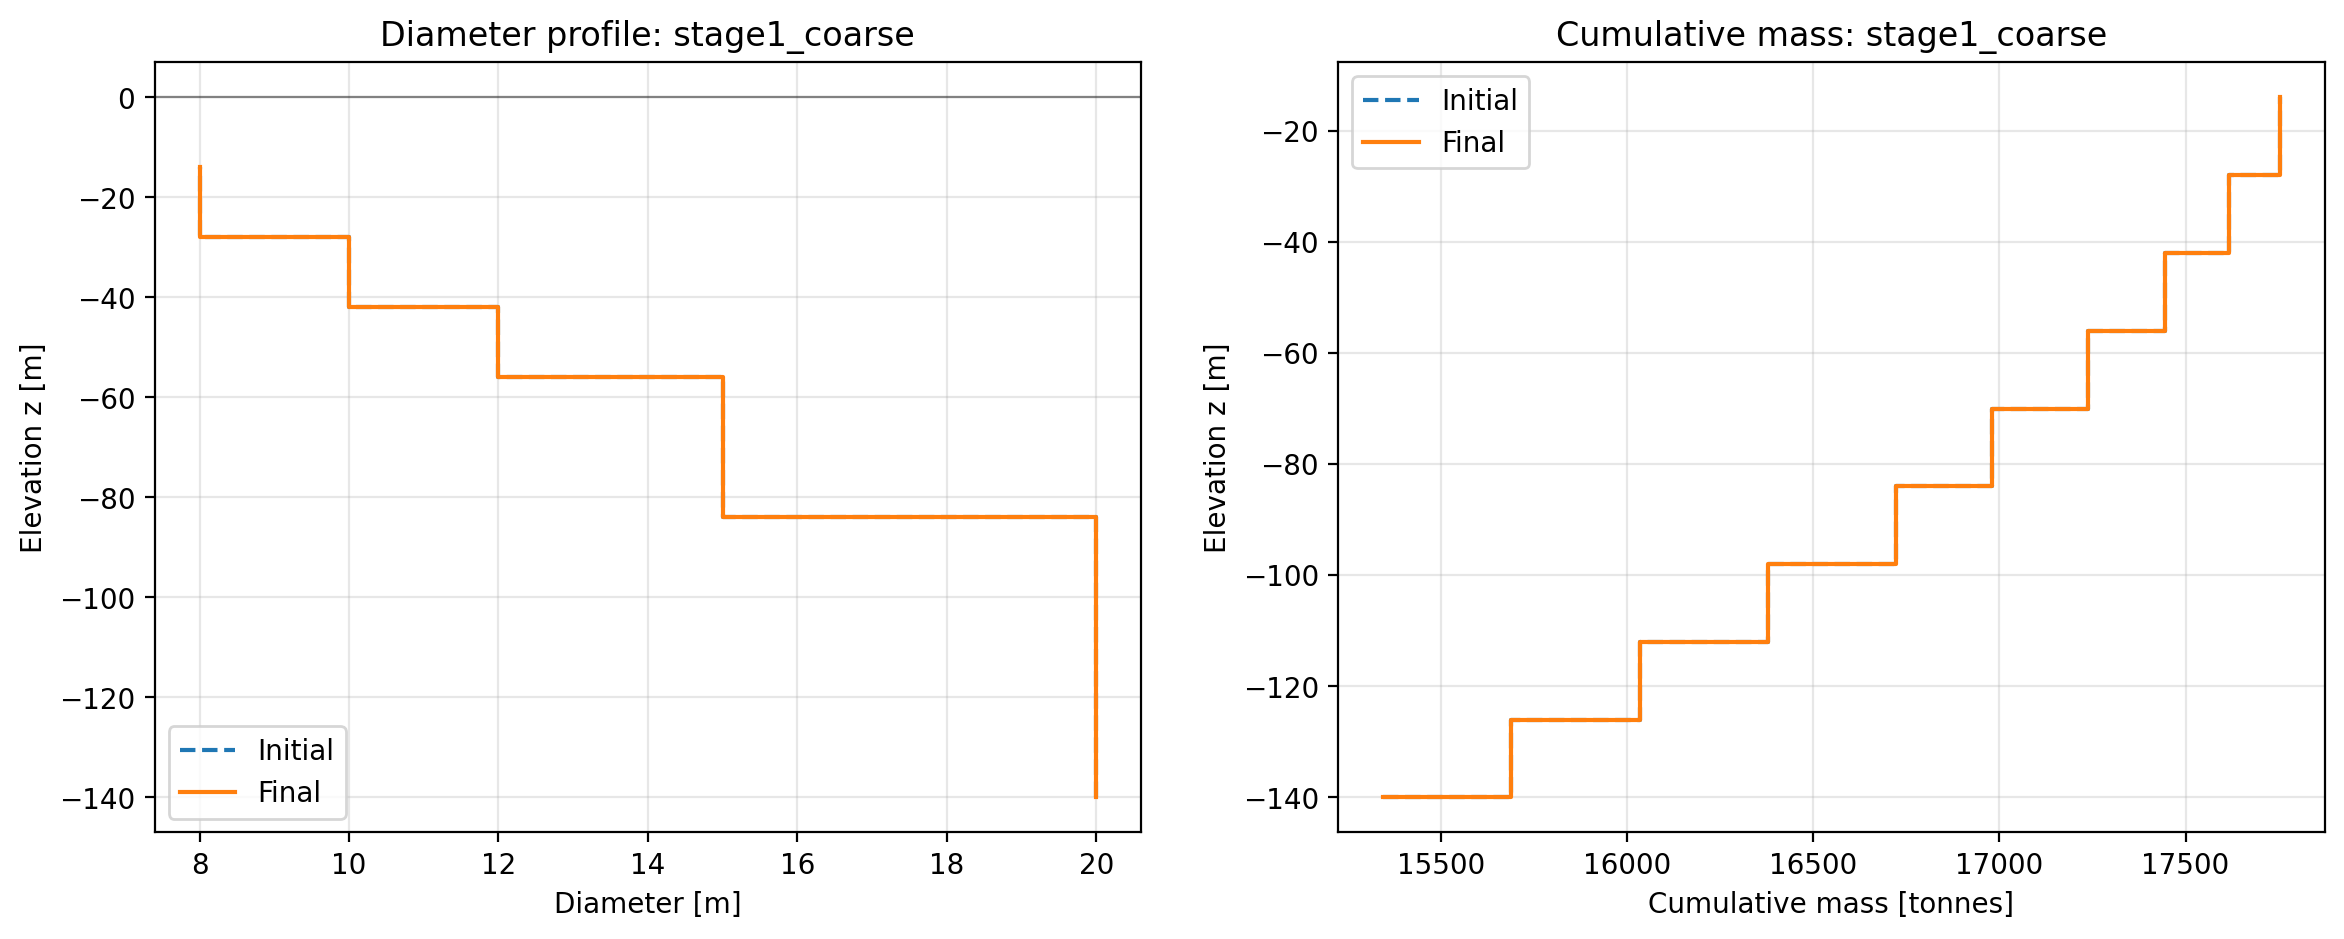
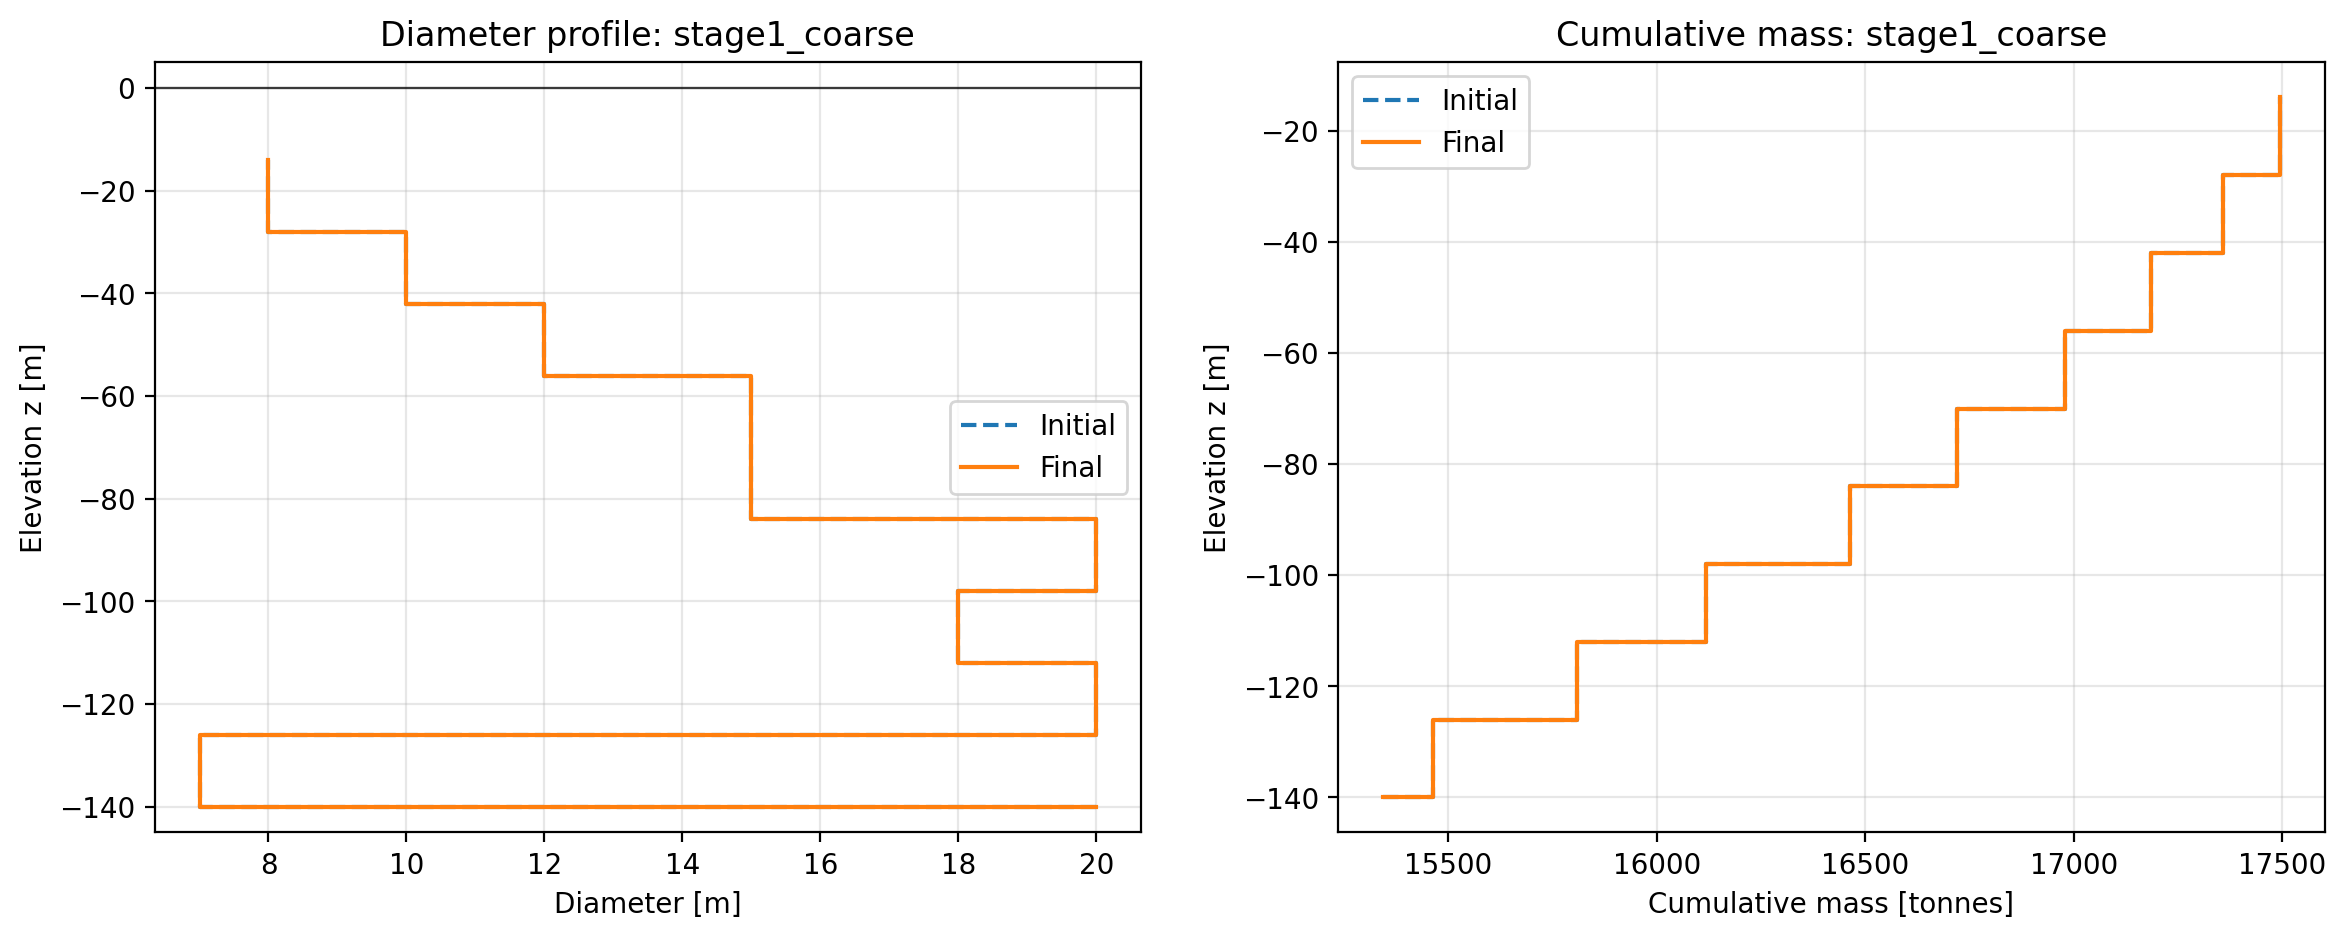
Kuckuck

diff --git a/functions/python/RUN_OPTIMIZER2.PY b/functions/python/RUN_OPTIMIZER2.PY
@@ -3,6 +3,7 @@ import numpy as np
 import matplotlib.pyplot as plt
 from scipy.optimize import minimize
 from tqdm.auto import tqdm
+from types import SimpleNamespace
 
 from common import loadFromJSON, generateRandomPhases
 from waves import Waves
@@ -71,11 +72,10 @@ def _design_key(x):
 
 
 def _plot_diameter_profile(ax, structure, diameters, label, style='-'):
-    z_submerged = np.asarray(structure.z_edges_computed[:-1], dtype=float)
-    d_submerged = np.asarray(diameters, dtype=float).reshape(-1)
-
-    ax.step(d_submerged, z_submerged, style, where='post', label=label)
-    ax.axhline(0.0, color='k', linewidth=0.8, alpha=0.25)
+    z_edges = np.asarray(structure.z_edges_computed, dtype=float)
+    ax.step(diameters, z_edges[:-1], style, where='post', label=label)
+    ax.set_ylim([min(z_edges) - 5, 5]) 
+    ax.axhline(0.0, color='k', linewidth=0.8, alpha=0.5)
 
 def _get_weight_distribution(structure, D_nodes, L_fracs, ballast_mass, thickness=FIXED_THICKNESS):
     """Cumulative mass from the bottom upward: steel shell + ballast lump at the lowest node."""
@@ -254,11 +254,10 @@ def constraints_fun(x, waves, wind, t_integration, transient_time, surge_rms_max
     surge_rms = np.sqrt(np.mean(q[post_transient, 0] ** 2))
     pitch_rms = np.sqrt(np.mean((np.rad2deg(q[post_transient, 1])) ** 2))
 
-    # Clamp to [-3, ...] so unstable-simulation outliers don't wreck gradient estimation
     return np.array([
-        max(-3.0, (surge_rms_max - surge_rms) / surge_rms_max),
-        max(-3.0, (pitch_rms_max_deg - pitch_rms) / pitch_rms_max_deg),
-        (buoyancy_margin - FLOATING_MARGIN) / 1e6,
+        (surge_rms_max - surge_rms) / surge_rms_max,
+        (pitch_rms_max_deg - pitch_rms) / pitch_rms_max_deg,
+        buoyancy_margin / 1e7,  # Assuming ~10,000 tonnes
         (gm - GM_MIN) / GM_MIN
     ])
 
@@ -278,37 +277,118 @@ def _make_cached_evaluator(waves, wind, t_integration, transient_time, feval_pro
     return evaluate
 
 
-def execute_optimization_stage(x0, bounds, time_final, time_step, transient_time, maxiter, ftol, stage_name):
-    """Executes a single optimization flight profile stage with targeted environments."""
-    t_integration = np.arange(0.0, time_final, 2.0 * time_step)
-    integration_dt = 2.0 * time_step
-    
-    print(f"\n[{stage_name}] Pre-computing environmental conditions (T={time_final:.0f}s, dt={integration_dt:.2f}s)...")
+# ---------------------------------------------------------------------------
+# Environment cache helpers — single 1200 s realisation shared by both stages
+# ---------------------------------------------------------------------------
+_ENV_CACHE_DIR = os.path.join(BASE, 'assignment5', 'python', 'outputVariables')
+_ENV_DURATION  = 1200.0   # covers Stage 2; Stage 1 only uses the first 400 s
+_ENV_DT        = 1.0      # = 2 * time_step (time_step = 0.5 s)
+
+
+def _env_cache_path(prefix, seed, **extra):
+    """Return a deterministic .npz path based on generation parameters."""
+    os.makedirs(_ENV_CACHE_DIR, exist_ok=True)
+    tag = f"{prefix}_T{_ENV_DURATION:.0f}_dt{_ENV_DT:.4f}_seed{seed}"
+    for k, v in sorted(extra.items()):
+        tag += f"_{k}{v:.4g}"
+    return os.path.join(_ENV_CACHE_DIR, f"env_cache_{tag}.npz")
+
+
+def _load_or_compute_waves():
+    """Load or generate the 1200 s JONSWAP wave environment (cached to disk)."""
+    Hs   = SPAR0.get('significant_wave', 6.0)
+    Tp   = SPAR0.get('wave_period', 10.0)
+    h    = TIME_INFO.get('water_depth', 320.0)
+    seed = 2
+    t    = np.arange(0.0, _ENV_DURATION, _ENV_DT)
+    cache_file = _env_cache_path('waves', seed, Hs=Hs, Tp=Tp, h=h)
+
+    if os.path.exists(cache_file):
+        d = np.load(cache_file)
+        if 'eta' not in d.files:
+            os.remove(cache_file)  # stale cache without eta — regenerate
+        else:
+            return SimpleNamespace(t=d['t'], u=d['u'], ut=d['ut'], z=d['z'], eta=d['eta'])
+
     waves = Waves.from_mapping({
-        'Hs': SPAR0.get('significant_wave', 6.0),
-        'Tp': SPAR0.get('wave_period', 10.0),
-        'TDur': time_final,
-        'dt': integration_dt,
-        'fHighCut': 0.5,
-        'h': TIME_INFO.get('water_depth', 320.0),
-        'z': np.linspace(-MAX_DRAFT, 0.0, 120), 
-        't': t_integration,
+        'Hs': Hs, 'Tp': Tp, 'TDur': _ENV_DURATION,
+        'dt': _ENV_DT, 'fHighCut': 0.5,
+        'h': h, 'z': np.linspace(-MAX_DRAFT, 0.0, 120),
+        't': t,
     }).calculate_jonswap_spectrum()
-    waves = generateRandomPhases(waves, seed=2)
+    waves = generateRandomPhases(waves, seed=seed)
     waves = waves.calculate_free_surface_elevation_time_series_fft()
     waves = waves.calculate_kinematics_fft()
+    eta = getattr(waves, 'eta', np.zeros_like(waves.t))
+    np.savez_compressed(cache_file, t=waves.t, u=waves.u, ut=waves.ut, z=waves.z, eta=eta)
+    print(f"[ENV] Waves computed and saved to {os.path.basename(cache_file)}")
+    return waves
+
+
+def _load_or_compute_wind():
+    """Load or generate the 1200 s Kaimal wind environment (cached to disk)."""
+    V_10 = SPAR0.get('wind_speed', 8.0)
+    I    = TIME_INFO.get('turbulence_intensity', 0.05)
+    l    = TIME_INFO.get('turbulence_length_scale', 340.2)
+    seed = 1
+    t    = np.arange(0.0, _ENV_DURATION, _ENV_DT)
+    cache_file = _env_cache_path('wind', seed, V10=V_10, I=I, l=l)
+
+    if os.path.exists(cache_file):
+        d = np.load(cache_file)
+        return SimpleNamespace(t=d['t'], V_10=float(d['V_10']), V_hub=d['V_hub'])
 
     wind = Wind.from_mapping({
-        'V_10': SPAR0.get('wind_speed', 8.0),
-        'I': TIME_INFO.get('turbulence_intensity', 0.05),
-        'l': TIME_INFO.get('turbulence_length_scale', 340.2),
-        'TDur': time_final,
-        'dt': integration_dt,
-        'fHighCut': 0.5,
-        't': t_integration,
+        'V_10': V_10, 'I': I, 'l': l,
+        'TDur': _ENV_DURATION, 'dt': _ENV_DT,
+        'fHighCut': 0.5, 't': t,
     }).calculate_kaimal_spectrum()
-    wind = generateRandomPhases(wind, seed=1)
+    wind = generateRandomPhases(wind, seed=seed)
     wind = wind.calculate_time_series_fft()
+    np.savez_compressed(cache_file, t=wind.t, V_10=np.array(wind.V_10), V_hub=wind.V_hub)
+    print(f"[ENV] Wind computed and saved to {os.path.basename(cache_file)}")
+    return wind
+
+
+def plot_environment(waves, wind):
+    """Twin-axis time-series plot of wave elevation and hub wind speed over 1200 s."""
+    out_dir = os.path.join(BASE, 'assignment5', 'python', 'outputFig')
+    os.makedirs(out_dir, exist_ok=True)
+
+    fig, ax1 = plt.subplots(figsize=(14, 4))
+    ax2 = ax1.twinx()
+
+    eta = getattr(waves, 'eta', np.zeros_like(waves.t))
+    ax1.plot(waves.t, eta,         color='steelblue',  linewidth=0.8, alpha=0.9, label='Wave elevation [m]')
+    ax2.plot(wind.t,  wind.V_hub,  color='darkorange', linewidth=0.8, alpha=0.9, label='Hub wind speed [m/s]')
+
+    ax1.set_xlabel('Time [s]')
+    ax1.set_ylabel('Wave elevation [m]', color='steelblue')
+    ax2.set_ylabel('Hub wind speed [m/s]', color='darkorange')
+    ax1.tick_params(axis='y', labelcolor='steelblue')
+    ax2.tick_params(axis='y', labelcolor='darkorange')
+    ax1.set_title(
+        f'Environmental conditions — {_ENV_DURATION:.0f} s realisation '
+        f'(JONSWAP Hs={SPAR0.get("significant_wave", 6.0):.1f} m, '
+        f'Kaimal V₁₀={SPAR0.get("wind_speed", 8.0):.1f} m/s)'
+    )
+    ax1.set_xlim(waves.t[0], waves.t[-1])
+    lines  = ax1.get_lines() + ax2.get_lines()
+    labels = [ln.get_label() for ln in lines]
+    ax1.legend(lines, labels, fontsize=9, loc='upper right')
+    ax1.grid(True, alpha=0.3)
+
+    fig.tight_layout()
+    fpath = os.path.join(out_dir, 'environment_waves_wind_1200s_ro2.png')
+    fig.savefig(fpath, dpi=200, bbox_inches='tight')
+    plt.close(fig)
+    print(f"[ENV] Environment plot saved to {os.path.basename(fpath)}")
+
+
+def execute_optimization_stage(x0, bounds, waves, wind, time_final, time_step, transient_time, maxiter, ftol, stage_name):
+    """Execute one optimisation stage using a pre-computed shared environment."""
+    t_integration = np.arange(0.0, time_final, 2.0 * time_step)
+    print(f"\n[{stage_name}] Starting (T={time_final:.0f}s, {maxiter} iter max, ftol={ftol})...")
 
     feval_progress = tqdm(desc=f'{stage_name} Evals', unit='eval')
     evaluate = _make_cached_evaluator(waves, wind, t_integration, transient_time, feval_progress)
@@ -480,23 +560,30 @@ def run():
     bounds = d_bounds + frac_bounds + draft_bounds + ballast_mass_bounds
 
     # Initial stable anchor point
-    initial_diameters = [20.0, 20.0, 20.0, 20.0, 20.0, 15.0, 15.0, 12.0, 10.0, 8.0]
+    initial_diameters = [20.0, 7.0, 20.0, 18.0, 20.0, 15.0, 15.0, 12.0, 10.0, 8.0]
     initial_fractions = [0.1] * N_NODES 
     initial_draft = 140.0        # Deeper draft increases stability
     initial_ballast_mass = 15e6  # 15,000 tonnes (Higher ballast)
     
     x0 = np.array([*initial_diameters, *initial_fractions, initial_draft, initial_ballast_mass], dtype=float)
 
+    # Pre-compute shared 1200 s environment once — both stages reuse the same realisation
+    print("[ENV] Loading or computing 1200 s environment (JONSWAP seed 2 / Kaimal seed 1)...")
+    waves = _load_or_compute_waves()
+    wind  = _load_or_compute_wind()
+    print("[ENV] Environment ready.")
+    plot_environment(waves, wind)
+
     # =========================================================================
     # STAGE 1: COARSE & SWIFT DESIGN REGIME SWEEP (Saves ~75% Runtime)
     # =========================================================================
     res_stage1, c0_s1, cf_s1 = execute_optimization_stage(
-        x0=x0, bounds=bounds,
-        time_final=400.0,      # Shorter operational simulation
+        x0=x0, bounds=bounds, waves=waves, wind=wind,
+        time_final=400.0,
         time_step=0.5,
-        transient_time=150.0,  # Proportional baseline transient window
-        maxiter=35, 
-        ftol=1e-2,             # Loose engineering tolerance for rough shaping
+        transient_time=150.0,
+        maxiter=35,
+        ftol=1e-2,
         stage_name="STAGE_1_COARSE"
     )
     print_summary(res_stage1, x0, "STAGE 1 RESULTS", c0_s1, cf_s1)
@@ -506,12 +593,12 @@ def run():
     # =========================================================================
     print("\n[STAGE 2] Starting high-fidelity refinement from Stage 1 solution...")
     res_final, c0_s2, cf_s2 = execute_optimization_stage(
-        x0=res_stage1.x, bounds=bounds,  # Hot start from Stage 1 result
-        time_final=1200.0,     # Full validation length
+        x0=res_stage1.x, bounds=bounds, waves=waves, wind=wind,
+        time_final=1200.0,
         time_step=0.5,
         transient_time=600.0,
-        maxiter=15,            # Few steps needed since geometry is already close
-        ftol=1e-3,             # Tight optimization tolerance
+        maxiter=15,
+        ftol=1e-3,
         stage_name="STAGE_2_FINE"
     )
     print_summary(res_final, res_stage1.x, "STAGE 2 RESULTS", c0_s2, cf_s2)